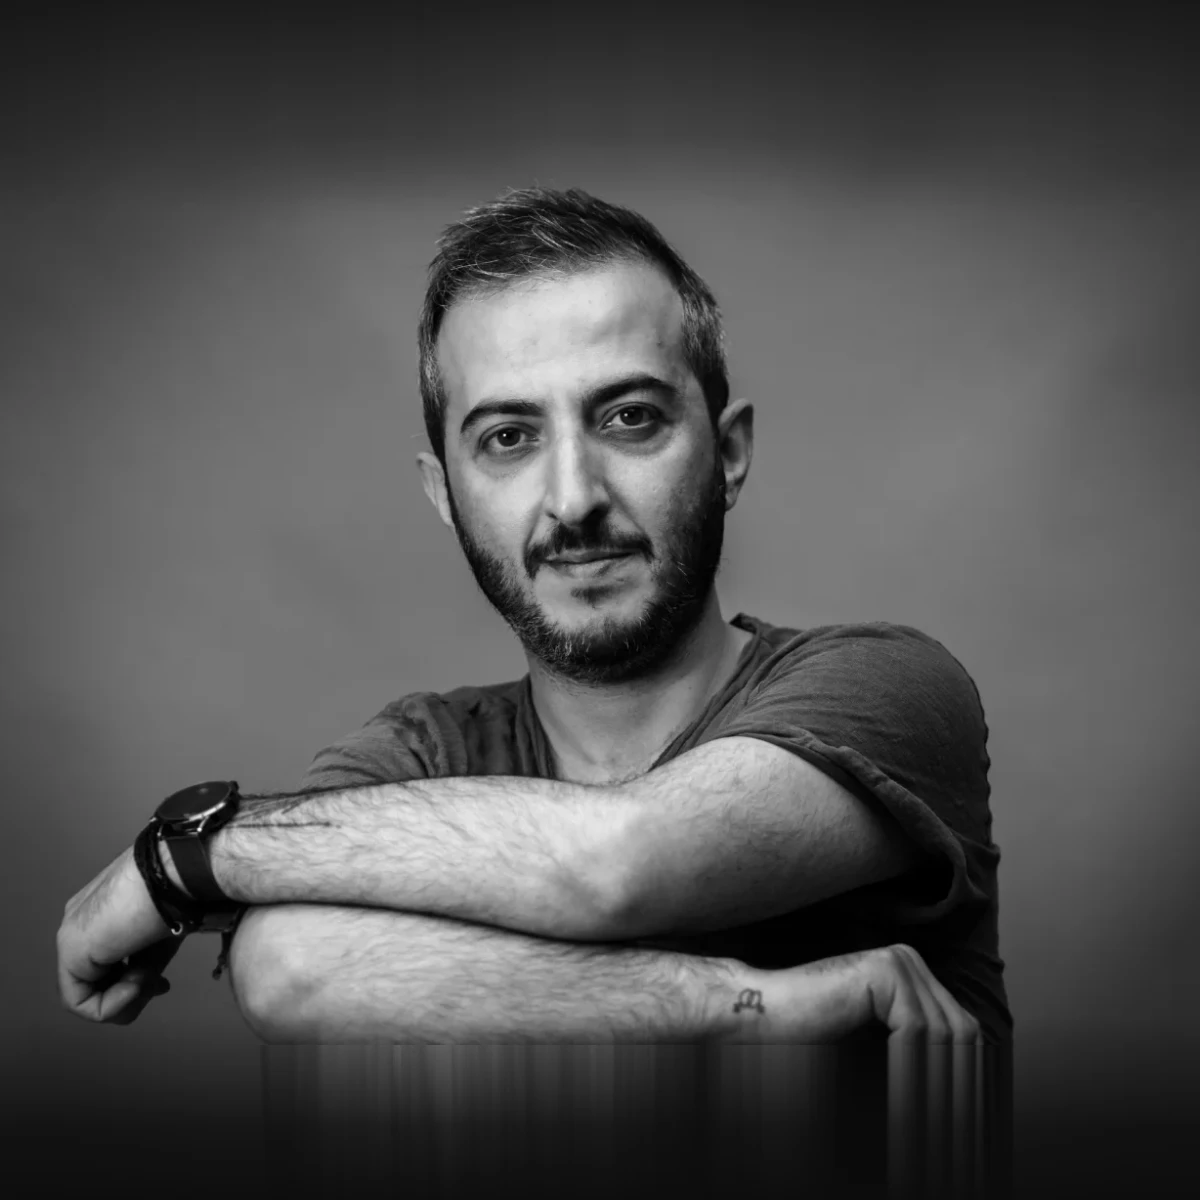
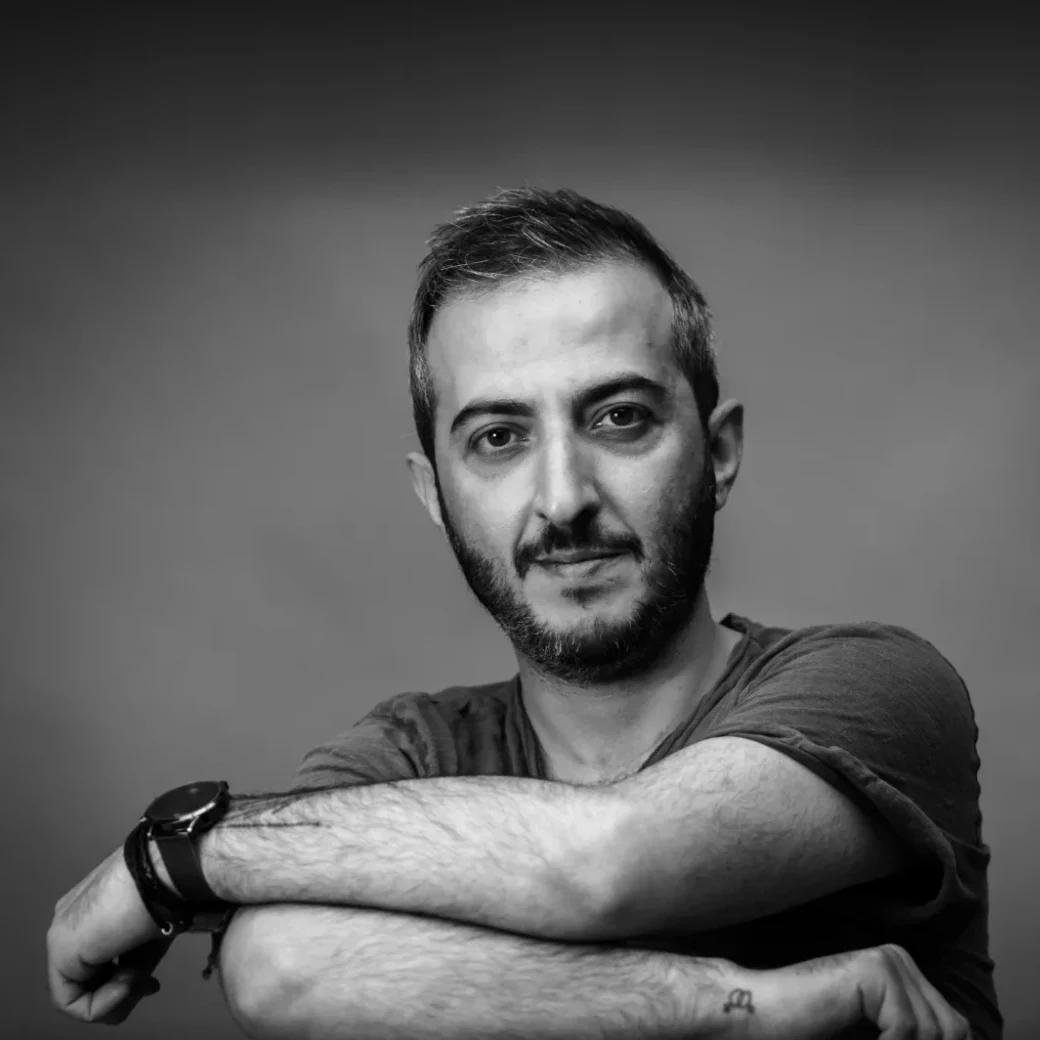
Beskär porträttet på Om-sidan: ta bort utsmetad kant i nederkant
Bilden beskärs till 1040×1040 så att den utdragna pixelremsan längst ner försvinner.

Claude-Session: https://claude.ai/code/session_01Hp845WCajnqqtLTyBqqZWk

diff --git a/om/index.html b/om/index.html
@@ -134,12 +134,12 @@
       </div>
       <div class="bop-media">
         <!-- PORTRÄTT: assets/portraits/ayman-hassdo-portratt.webp
-             (1200×1200). Vill du byta bild — skriv över filen med en ny
+             (1040×1040). Vill du byta bild — skriv över filen med en ny
              kvadratisk bild med samma namn, så följer både sidan och
              Googles data med. -->
         <figure class="bop-bild om-portratt">
           <img src="../assets/portraits/ayman-hassdo-portratt.webp" alt="Porträtt av Ayman Hassdo"
-               width="1200" height="1200" fetchpriority="high" decoding="async" />
+               width="1040" height="1040" fetchpriority="high" decoding="async" />
         </figure>
       </div>
     </header>
